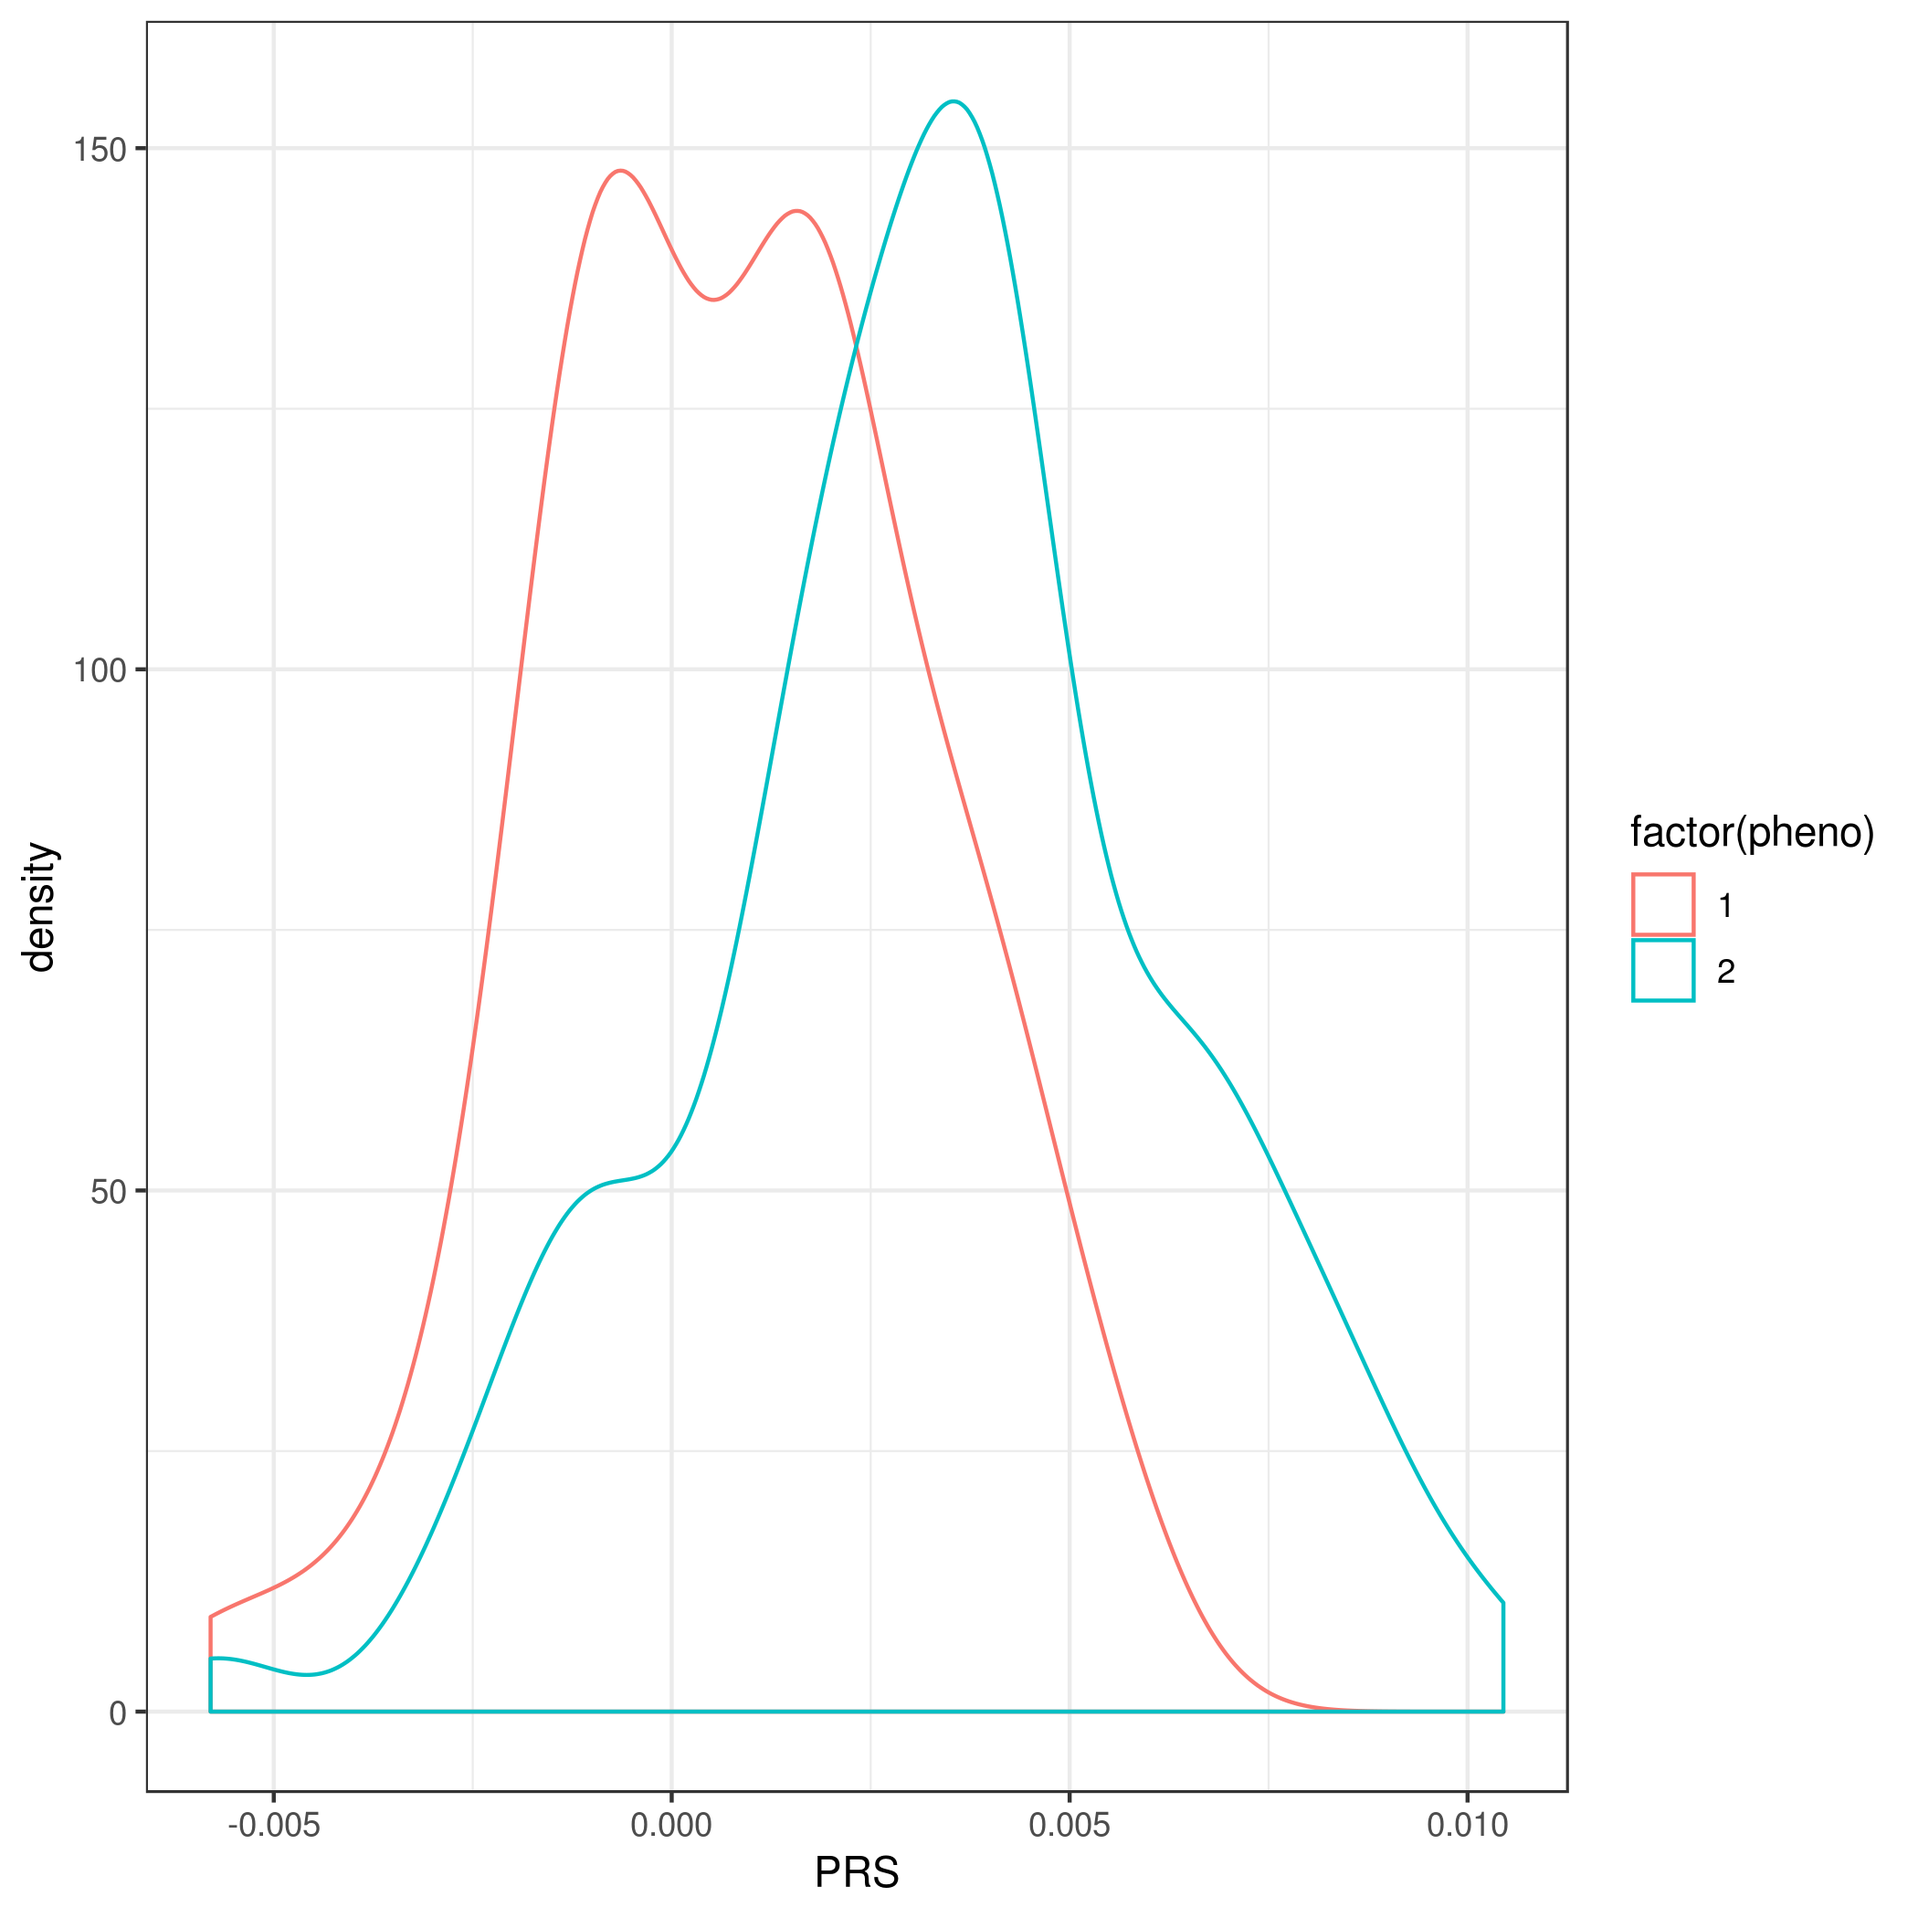
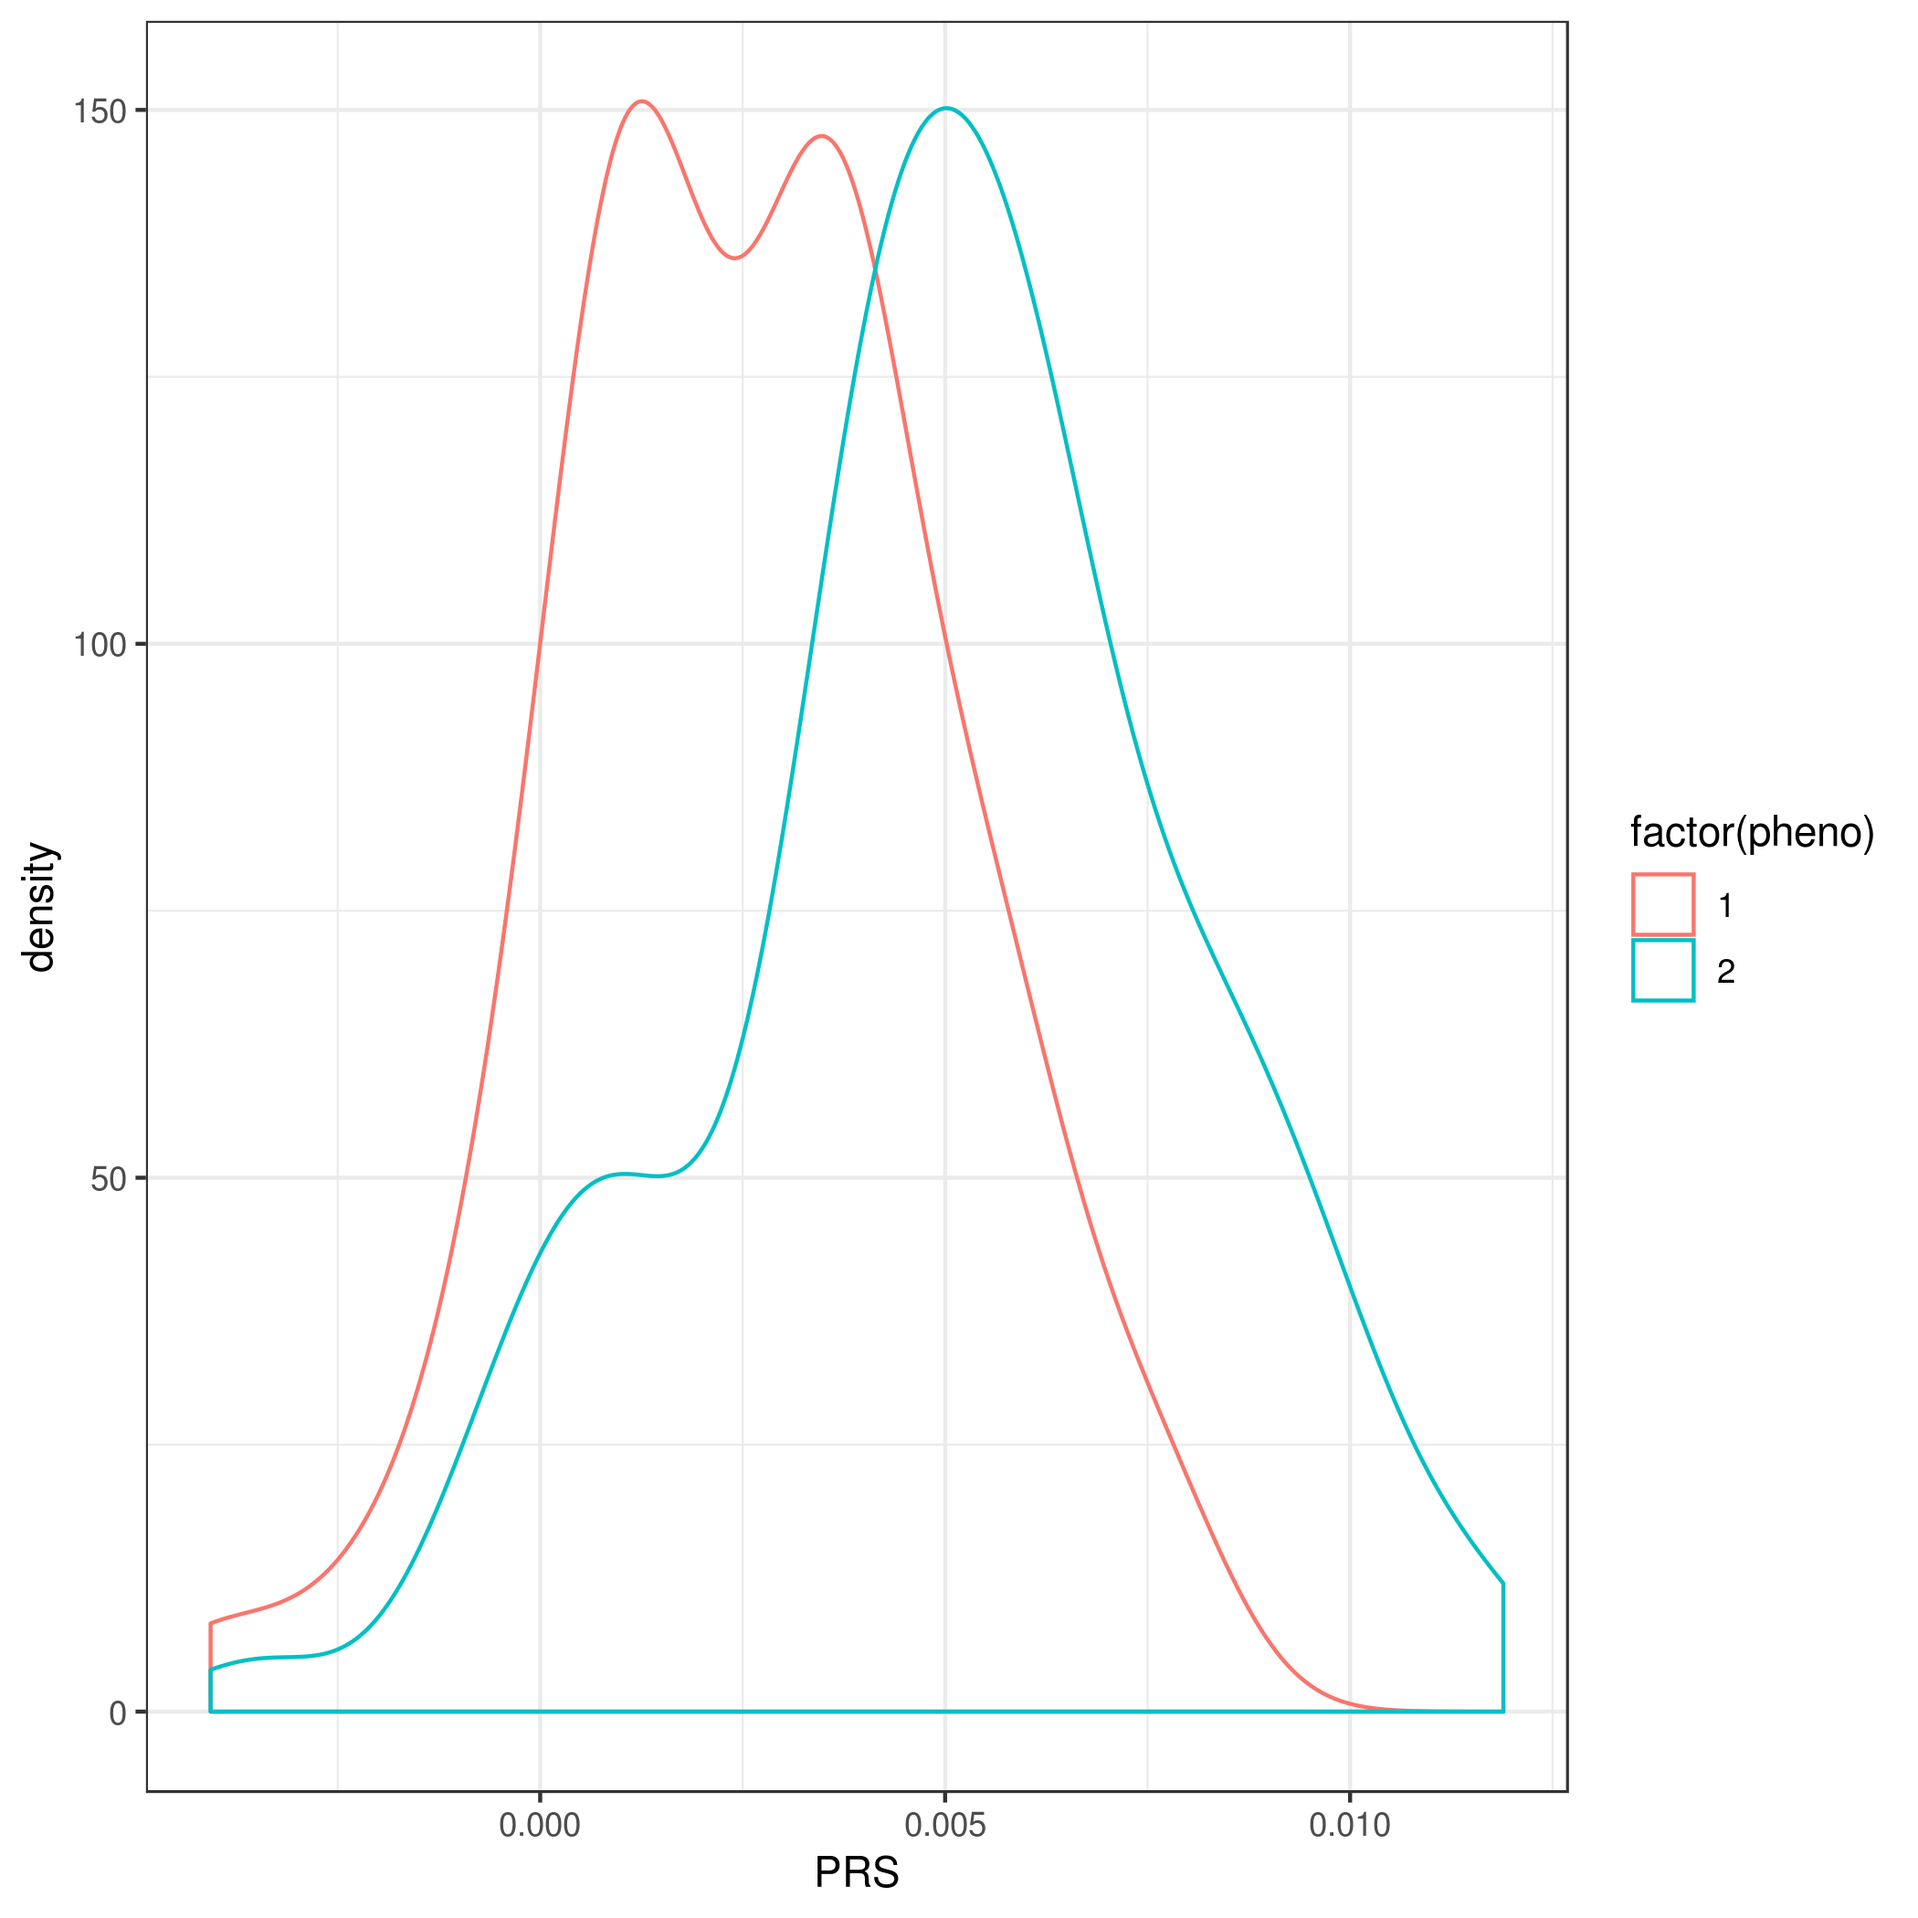
Update after fixing supplement base snps.

diff --git a/src/rules/sf_prs.py b/src/rules/sf_prs.py
@@ -7,8 +7,19 @@ rule prep_gwas_base:
     output:
         o = DATA + 'interim/ibd_gwas.eur.assoc'
     run:
+        def fix_positions(row):
+            if row['SNP']=='rs3172494' and row['BP']==48681053:
+                return 48731487
+            if row['SNP']=='rs9868809' and row['BP']==48731487:
+                return 48681053
+            if row['SNP']=='rs4768236' and row['BP']==40528432:
+                return 40756472
+            if row['SNP']=='rs11564258' and row['BP']==40756472:
+                return 40792300
+            return row['BP']
         df = pd.read_excel(input.i, sheet_name='Heterogeneity of effect', skiprows=7)
         cols = ['CHR', 'BP', 'SNP', 'A1', 'A2', 'EUR_OR', 'EUR_PVAL', 'EUR_SE']
+        df.loc[:, 'BP'] = df.apply(fix_positions, axis=1)
         df[cols].rename(columns={'EUR_OR':'OR', 'EUR_PVAL':'PVAL', 'EUR_SE':'SE'}).to_csv(output.o, index=False, sep=' ')
 
 rule mk_prsice_sample_ls:
@@ -96,7 +107,7 @@ rule base_impute_overlap:
         shell('cut -f 1,2 -d " " {input.a} | sed "s/ /\t/g" | sort -u > {output.o}.a')
         shell('comm -12 {output.o}.a {output.o}.b > {output.o}')
         shell('comm -12 {output.o} {output.o}.init > {output.oi}')
-         
+
 rule prsice:
     input:
         b = DATA + 'interim/bfiles_imputed_grouped/{group}/{pop}.fam',
@@ -165,6 +176,16 @@ rule calc_prs_roc:
         with open(output.auc, 'w') as fout:
             print('test\tauc', file=fout)
             print('\t'.join((wildcards.group, str(auc))), file=fout)
+
+rule calc_prs_roc_pval:
+    input:
+        i = DATA + 'interim/prsice_parsed/{group}/{pop}.dat'
+    output:
+        o = DATA + 'interim/prsice_roc/{group}.{pop}.roc_pval',
+    conda:
+        ENVS + 'verification-env.yml'
+    shell:
+        "Rscript {SCRIPTS}/roc_pval.R {input} {output}"
 
 rule plot_prs_roc:
     input:

diff --git a/src/rules/sf_clean_imputed.py b/src/rules/sf_clean_imputed.py
@@ -111,9 +111,9 @@ rule merge_imputed_bfiles:
 
 rule mk_rs_names:
     input:
-        i = DATA + 'interim/ibd_gwas.assoc'
+        i = DATA + 'interim/ibd_gwas.{pop}.assoc'
     output:
-        o = DATA + 'interim/rs_names'
+        o = DATA + 'interim/{pop}.rs_names'
     run:
         df = pd.read_csv(input.i, sep=' ')
         df.loc[:, 'id'] = df.apply(lambda row: str(row['CHR']) + ':' + str(row['BP']), axis=1)
@@ -149,13 +149,13 @@ rule rename_rs_imputed_bfiles:
     input:
         fam = DATA + 'interim/tmp.fam',
         f = DATA + 'interim/bfiles_imputed_combined/eur.fam',
-        rs_names = DATA + 'interim/rs_names'
+        rs_names = DATA + 'interim/eur.rs_names'
     output:
         DATA + 'processed/bfiles_imputed/eur.fam'
     singularity:
         PLINK
     log:
-        LOG + 'prs/rename_rs'
+        LOG + 'prs/rename_rs.eur'
     shell:
         "plink --bfile {DATA}/interim/bfiles_imputed_combined/eur "
         "--update-name {input.rs_names} --make-bed --maf 0.01 "

diff --git a/src/rules/Snakefile.py b/src/rules/Snakefile.py
@@ -35,5 +35,5 @@ rule after_imputation:
         expand(PLOTS + 'manhattan.{group}.png', group=G),
         PWD + 'writeup/tables/prs.eur.md',
         PWD + 'writeup/tables/maf.md',
-        DATA + "interim/variants/snpeff/eur.vcf",
         DATA + 'interim/prsice/snp_overlap/all.eur.init'
+#        DATA + "interim/variants/snpeff/eur.vcf",

diff --git a/writeup/tables/prs.eur.md b/writeup/tables/prs.eur.md
@@ -1,6 +1,6 @@
-| Phenotype   | Set   |   Threshold |     PRS.R2 |    Full.R2 |   Null.R2 | Prevalence   |   Coefficient |   Standard.Error |           P |   Num_SNP |   Empirical-P | test    |      auc |
-|:------------|:------|------------:|-----------:|-----------:|----------:|:-------------|--------------:|-----------------:|------------:|----------:|--------------:|:--------|---------:|
-| -           | Base  |      0.0024 | 0.181496   | 0.181496   |         0 | -            |      292.663  |          84.7212 | 0.000551474 |       227 |   0.000805999 | early   | 0.718339 |
-| -           | Base  |      0.0024 | 0.223198   | 0.223198   |         0 | -            |      330.461  |          71.0674 | 3.32002e-06 |       227 |   7.99999e-06 | all     | 0.746051 |
-| -           | Base  |      0.0024 | 0.286093   | 0.286093   |         0 | -            |      414.587  |          92.8104 | 7.93114e-06 |       227 |   1.6e-05     | late    | 0.76592  |
-| -           | Base  |      0.0001 | 0.00690521 | 0.00690521 |         0 | -            |      -48.3991 |          70.9848 | 0.495351    |       226 |   0.501217    | ibd_all | 0.479146 |
+| Phenotype   | Set   |   Threshold |     PRS.R2 |    Full.R2 |   Null.R2 | Prevalence   |   Coefficient |   Standard.Error |          P |   Num_SNP |   Empirical-P | test    |      auc |
+|:------------|:------|------------:|-----------:|-----------:|----------:|:-------------|--------------:|-----------------:|-----------:|----------:|--------------:|:--------|---------:|
+| -           | Base  |      0.0024 | 0.169971   | 0.169971   |         0 | -            |      282.692  |          84.0009 | 0.00076449 |       231 |   0.001119    | early   | 0.712993 |
+| -           | Base  |      0.0024 | 0.211084   | 0.211084   |         0 | -            |      319.299  |          69.9462 | 4.9968e-06 |       231 |   8.99999e-06 | all     | 0.7409   |
+| -           | Base  |      0.0024 | 0.270781   | 0.270781   |         0 | -            |      397.952  |          90.5791 | 1.1158e-05 |       231 |   2.5e-05     | late    | 0.760908 |
+| -           | Base  |      0.0001 | 0.00720984 | 0.00720984 |         0 | -            |      -50.1986 |          72.0272 | 0.485841   |       230 |   0.491337    | ibd_all | 0.482125 |
